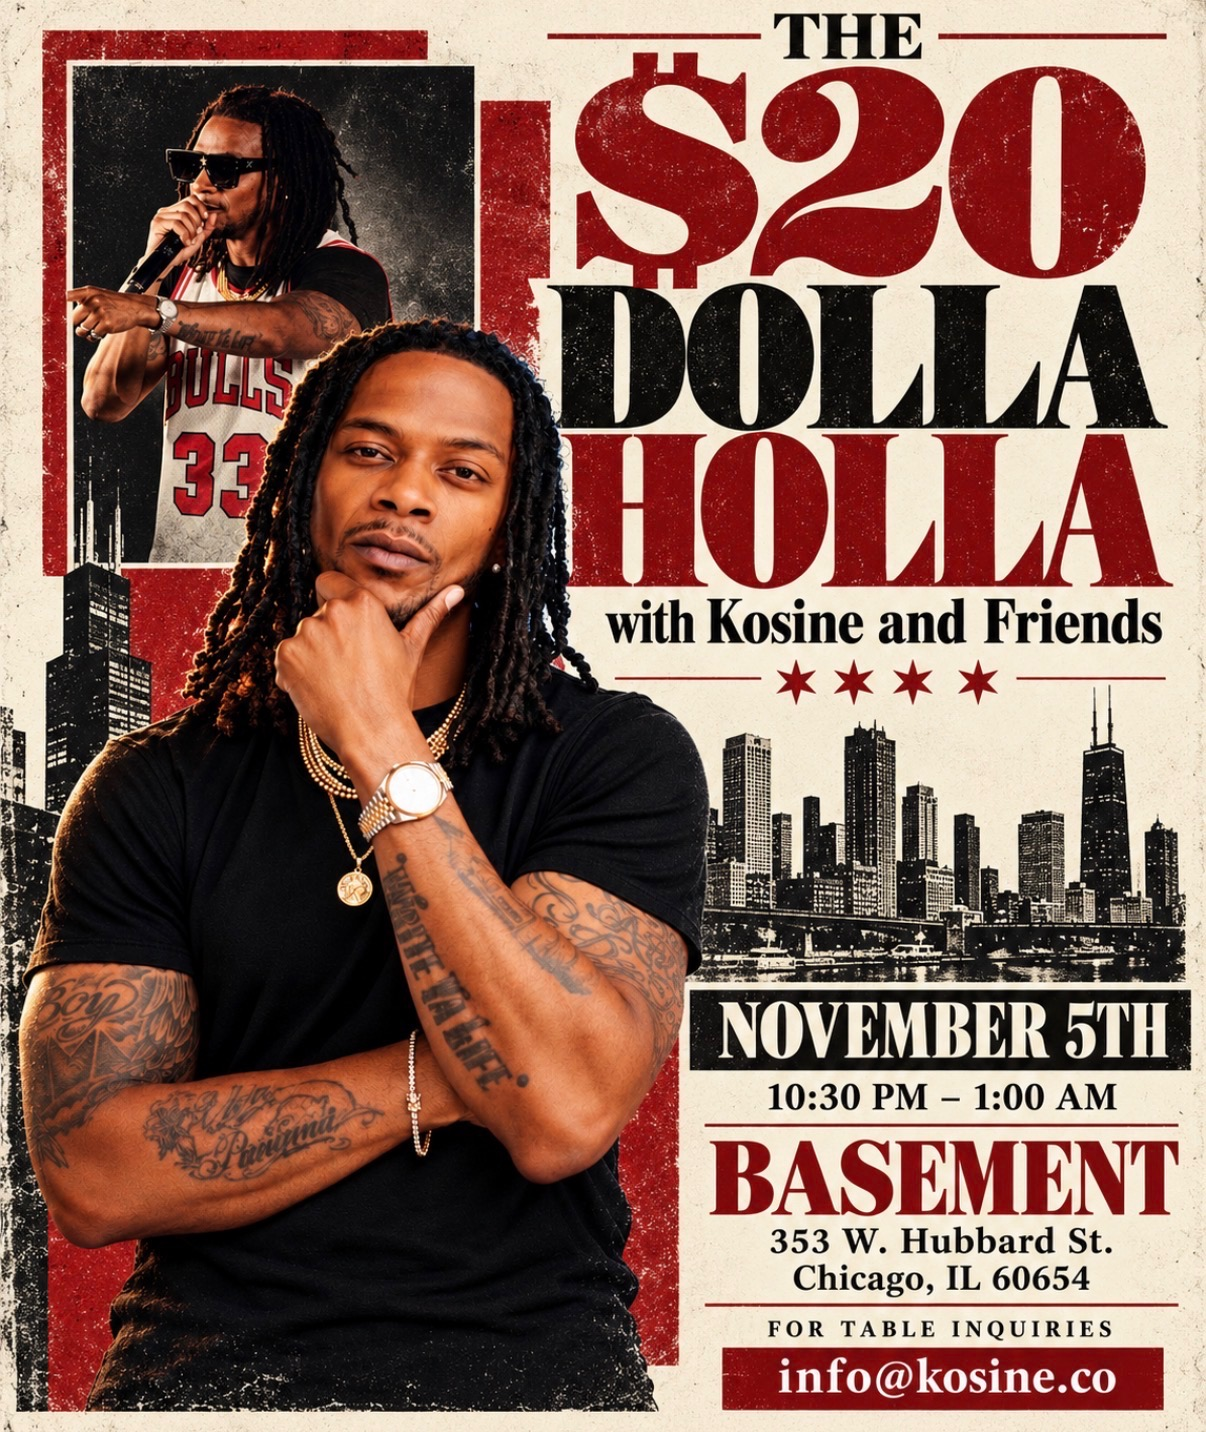
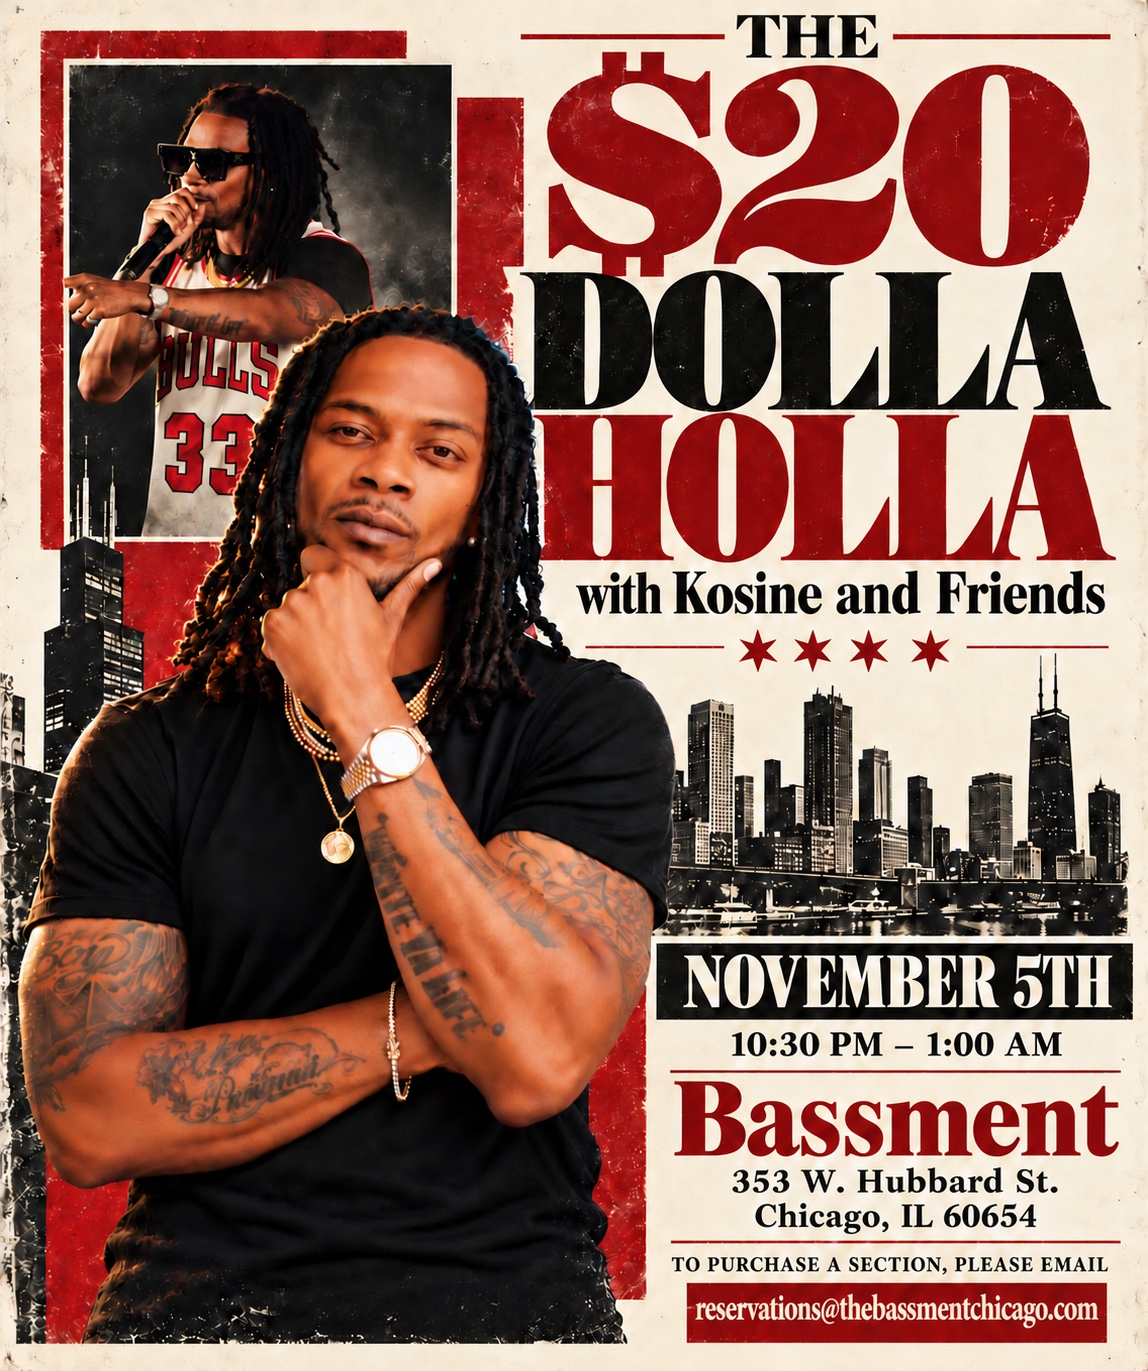
sponsor: final flyer (Bassment), Zelle/Cash App wording, no ACH line

diff --git a/sponsor/index.html b/sponsor/index.html
@@ -55,7 +55,7 @@ a:focus-visible{outline:2px solid var(--gold);outline-offset:3px}
   <h1>Come sit with me<br>on November 5.</h1>
   <div class="when">The $20 Dolla Holla with Kosine and Friends<br><b>Thursday, November 5, 2026 · 10:30 PM to 1:00 AM</b><br>Bassment · 353 W. Hubbard Street · Chicago, IL 60654</div>
 
-  <img class="flyer" src="/assets/dolla-holla-2026-11-05.jpg" width="1206" height="1432" alt="Flyer: The $20 Dolla Holla with Kosine and Friends, November 5, 10:30 PM to 1:00 AM, 353 W. Hubbard St., Chicago" loading="eager">
+  <img class="flyer" src="/assets/dolla-holla-2026-11-05.jpg" width="1148" height="1371" alt="Flyer: The $20 Dolla Holla with Kosine and Friends, November 5, 10:30 PM to 1:00 AM, Bassment, 353 W. Hubbard St., Chicago. To purchase a section, email reservations@thebassmentchicago.com" loading="eager">
 
   <p class="lead">I'm Marcos "Kosine" Palacios. I'm a Grammy-nominated, multi-platinum producer, and I'm a teacher. On Thursday, November 5, after the Soul Train Awards tape across town, I'm hosting The $20 Dolla Holla with Kosine and Friends at Bassment. Live band, my records, my city. I'd like your company in the room, and I'd like to tell you why I'm asking.</p>
 
@@ -108,7 +108,7 @@ a:focus-visible{outline:2px solid var(--gold);outline-offset:3px}
       <a class="btn" href="mailto:Kosine@kosine.co?subject=Community%20Sponsor%2C%20The%20%2420%20Dolla%20Holla%2C%20Nov%205&body=Company%20or%20name%3A%0AContact%3A%0APhone%3A%0AHow%20many%20guests%20you%20expect%3A%0AAnything%20I%20should%20know%3A%0A">Request this package</a>
     </div>
   </div>
-  <div class="note"><b>How payment works</b><span>Send the request, I reply myself, and once your package is confirmed in writing the Office sends you a secure card link (Stripe) or Zelle and ACH details for Internz University LLC. No card details are ever collected on this site.</span></div>
+  <div class="note"><b>How payment works</b><span>Send the request, I reply myself, and once your package is confirmed in writing the Office sends you a secure card link (Stripe) or the Zelle or Cash App details for Internz University LLC. No card details are ever collected on this site.</span></div>
   <!-- Sponsor card links exist in Stripe as INACTIVE drafts (test mode, see kosine-os projects/soul-train-awards-2026/after-party/sponsorship/05_STRIPE-AND-ZELLE_payment-setup.md). They are issued by the Office per sponsor after written confirmation, not published here. -->
 
   <h2>Support free music education, any amount</h2>
@@ -121,7 +121,7 @@ a:focus-visible{outline:2px solid var(--gold);outline-offset:3px}
     <a href="https://buy.stripe.com/test_9B6aEXdfS83TaFleHDfAc04" rel="noopener">$500</a>
     <a class="custom" href="https://buy.stripe.com/test_aFa14n3Fiesh9BhczvfAc05" rel="noopener">Your amount</a>
   </div>
-  <p class="small">Prefer Zelle or ACH? <a href="mailto:info@kosine.co?subject=Education%20support%2C%20Zelle%20or%20ACH&body=Name%3A%0AAmount%3A%0A" style="color:var(--gold);display:inline-block;padding:10px 0">Email the Office</a> and the details for Internz University LLC come back within one business day.</p>
+  <p class="small">Prefer Zelle or Cash App? <a href="mailto:info@kosine.co?subject=Education%20support%2C%20Zelle%20or%20Cash%20App&body=Name%3A%0AAmount%3A%0A" style="color:var(--gold);display:inline-block;padding:10px 0">Email the Office</a> and the details for Internz University LLC come back within one business day.</p>
 
   <h2>Sections, tables, and questions</h2>
   <div class="note"><b>Sponsorship</b><span>Kosine@kosine.co. I answer these myself.</span></div>
